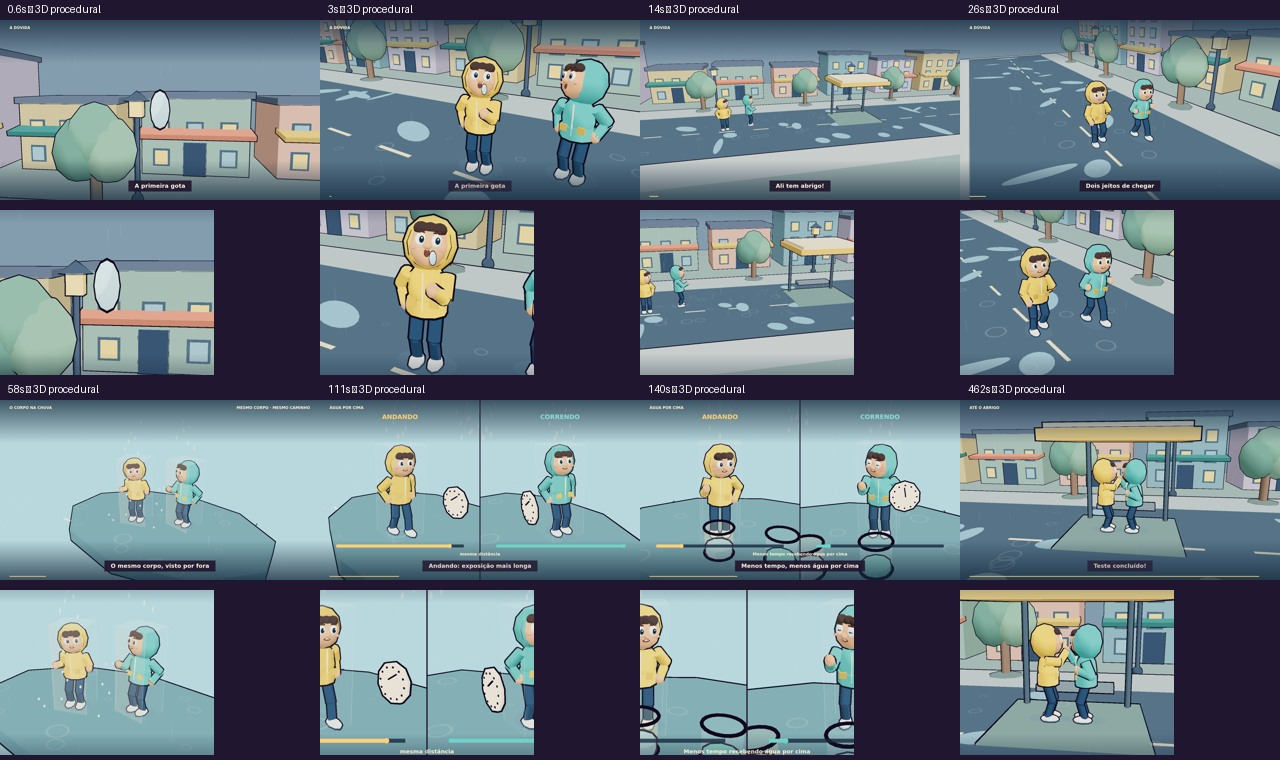
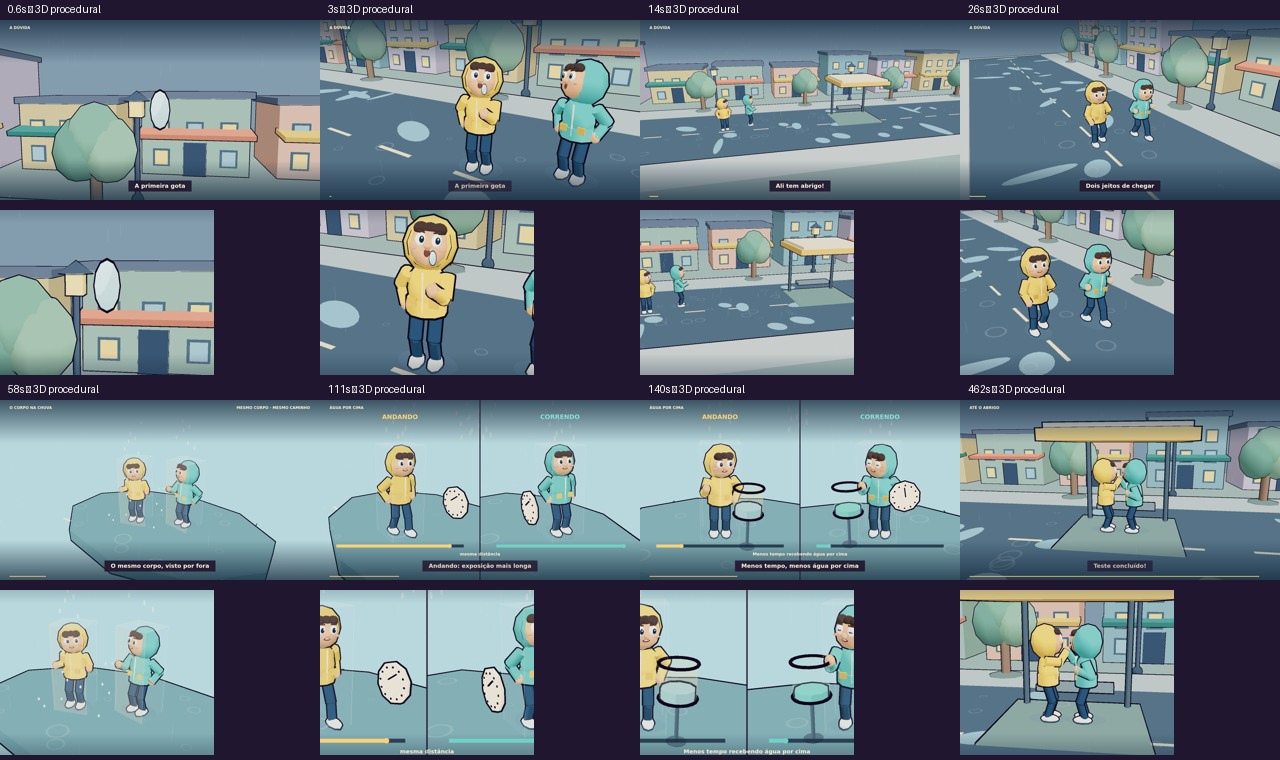
Melhora leitura dos recipientes 3D e dos níveis de água

Changed region(s): [[0.5, 0.8474, 0.6875, 0.9987], [0.5312, 0.6355, 0.7188, 0.7566]]

diff --git a/Animação/projetos/01 - Andar ou Correr na chuva/film.js b/Animação/projetos/01 - Andar ou Correr na chuva/film.js
@@ -97,7 +97,7 @@ for(let j=0;j<8;j++){const a=j*Math.PI/4;const rib=bone(canopy,palette.cream,.01
 const clipboard=new T.Group();scene.add(clipboard);box(palette.cream,clipboard,[0,0,0],[.43,.53,.035],true);box(palette.ink,clipboard,[0,.25,.03],[.16,.04,.04]);for(let j=0;j<4;j++)box(0x839cae,clipboard,[-.02,.12-j*.075,.025],[.25,.012,.006]);
 const pencil=box(palette.orange,scene,[0,0,0],[.025,.20,.025]);pencil.rotation.z=-.6;
 const towel=box(palette.cream,scene,[0,0,0],[.25,.38,.045]);
-const buckets=new T.Group();scene.add(buckets);const waterColumns=[];for(let j=0;j<2;j++){const g=new T.Group();g.position.set((j-.5)*1.3,0,0);buckets.add(g);const wall=new T.Mesh(new T.CylinderGeometry(.31,.31,.60,16,1,true),new T.MeshBasicMaterial({color:j?palette.teal:palette.yellow,transparent:true,opacity:.24,side:T.DoubleSide,depthWrite:false}));wall.position.y=.34;g.add(wall);for(const y of [.04,.64]){const rim=mesh(new T.TorusGeometry(.31,.018,5,20),palette.ink,g,[0,y,0],[1,1,1]);rim.rotation.x=Math.PI/2;}const water=cylinder(j?0x4bb8af:0x77b7d2,g,[0,.12,0],[.285,.15,.285]);waterColumns.push(water);}
+const buckets=new T.Group();scene.add(buckets);const waterColumns=[];for(let j=0;j<2;j++){const g=new T.Group();g.position.set((j-.5)*1.3,0,0);buckets.add(g);const wall=new T.Mesh(new T.CylinderGeometry(.31,.31,.60,16,1,true),new T.MeshBasicMaterial({color:j?palette.teal:palette.yellow,transparent:true,opacity:.24,side:T.DoubleSide,depthWrite:false}));wall.position.y=.34;g.add(wall);for(const y of [.04,.64]){const rim=mesh(new T.TorusGeometry(.31,.018,5,20),palette.ink,g,[0,y,0],[1,1,1]);rim.rotation.x=Math.PI/2;}const water=cylinder(j?0x4bb8af:0x77b7d2,g,[0,.12,0],[.285,.15,.285]);waterColumns.push(water);cylinder(0x516879,g,[0,-.40,0],[.035,.80,.035]);cylinder(0x516879,g,[0,-.78,0],[.18,.04,.18]);}
 const clockProp=new T.Group();scene.add(clockProp);const dial=cylinder(palette.cream,clockProp,[0,0,0],[.32,.045,.32],true);dial.rotation.x=Math.PI/2;const needle=box(palette.ink,clockProp,[0,.10,.04],[.018,.2,.02]);for(let j=0;j<12;j++){const a=j*Math.PI/6;box(palette.ink,clockProp,[Math.sin(a)*.25,Math.cos(a)*.25,.04],[.025,.025,.01]);}
 const ruler=new T.Group();scene.add(ruler);box(palette.cream,ruler,[0,.075,0],[6,.05,.16]);for(let j=0;j<=12;j++)box(palette.ink,ruler,[-3+j*.5,.11,0],[.025,.018,j%2?.08:.15]);
 const track=new T.Group();scene.add(track);for(const x of [-3,3])box(palette.cream,track,[x,.065,.2],[.12,.018,3.1]);
@@ -125,7 +125,7 @@ function draw(t){t=clamp(t,0,479.999);const st=direct(stage(t,timings),t),{A,B,q
  umbrella.visible=!!st.props.umbrella;if(umbrella.visible){const u=st.props.umbrella;if(u.flying)put(umbrella,[u.x,u.y,u.z]);else put(umbrella,(u.holder==='A'?walker:runner).handWorld.right);umbrella.rotation.set(u.flip*.1,0,-u.flip*.25+.03*Math.sin(t*3));canopy.scale.set(.12+.88*u.open,u.flip?-.6:1,.12+.88*u.open);}
  clipboard.visible=!!st.props.clipboard;pencil.visible=clipboard.visible;if(clipboard.visible){const rig=st.props.clipboard==='A'?walker:runner;put(clipboard,rig.handWorld.left);clipboard.rotation.set(-.5,.15,-.1);put(pencil,rig.handWorld.right);pencil.rotation.z=-.6+Math.sin(t*12)*.08;}
  towel.visible=!!st.props.towel;if(towel.visible){const rig=st.action==='dry_friend'?walker:runner;put(towel,rig.handWorld.right);towel.rotation.z=Math.sin(t*5)*.2;}
- buckets.visible=!!st.props.buckets;buckets.position.set(midX,.03,midZ+1.2);for(let i=0;i<2;i++){const h=.06+(.49/(i?2:1))*smooth(q);waterColumns[i].scale.y=h;waterColumns[i].position.y=.04+h/2;}
+ buckets.visible=!!st.props.buckets;buckets.position.set(0,.80,0);for(const [i,a]of[A,B].entries())buckets.children[i].position.set(a.x+(i?-.75:.75),0,a.z+.45);for(let i=0;i<2;i++){const h=.06+(.49/(i?2:1))*smooth(q);waterColumns[i].scale.y=h;waterColumns[i].position.y=.04+h/2;}
  ruler.visible=!!st.props.ruler;ruler.position.set(midX,0,midZ+1.6);track.visible=!!st.props.track;
  clockProp.visible=!!st.props.clock;clockProp.position.set(midX+1.3,1.3,midZ+.5);needle.rotation.z=-st.local*1.5;
  puddle.visible=!!st.props.puddle;
@@ -136,7 +136,7 @@ function draw(t){t=clamp(t,0,479.999);const st=direct(stage(t,timings),t),{A,B,q
  for(let j=0;j<32;j++){const a=(t*1.2+j*.131)%1;dummy.position.set(ringBase[j][0],.06,ringBase[j][1]);dummy.rotation.set(-Math.PI/2,0,0);dummy.scale.setScalar(.05+a*.25);dummy.updateMatrix();rings.setMatrixAt(j,dummy.matrix);}rings.instanceMatrix.needsUpdate=true;
  demoDrops.visible=Boolean(A.overlay||B.overlay);if(demoDrops.visible){for(let j=0;j<24;j++){const actor=j<12?A:B,rig=j<12?walker:runner,front=actor.overlay==='front'||actor.overlay==='both'&&j%2===0,phase=(t*(st.props.slow?.3:.8)+j*.137)%1;const v=new T.Vector3((j%3-1)*.23,front?.65+(j%5)*.29:3.55-phase*1.1,front?1.8-phase*1.2:(j%4-1.5)*.16);rig.g.localToWorld(v);dummy.position.copy(v);dummy.rotation.set(0,0,0);dummy.scale.set(.025,front?.035:.065,.025);dummy.updateMatrix();demoDrops.setMatrixAt(j,dummy.matrix);}demoDrops.instanceMatrix.needsUpdate=true;}
  renderer.setScissorTest(false);renderer.setViewport(0,0,1920,1080);if(!st.split)renderer.render(scene,camera);
- if(st.split){renderer.setScissorTest(true);for(const [i,rig,actor,other]of[[0,walker,A,runner],[1,runner,B,walker]]){other.setVisible(false);rig.setVisible(true);renderer.setViewport(i*960,0,960,1080);renderer.setScissor(i*960,0,960,1080);applyCamera(cameraPlan(st,t,8/9,actor));renderer.render(scene,camera);}walker.setVisible(true);runner.setVisible(true);renderer.setScissorTest(false);renderer.setViewport(0,0,1920,1080);applyCamera(plan);}
+ if(st.split){renderer.setScissorTest(true);for(const [i,rig,actor,other]of[[0,walker,A,runner],[1,runner,B,walker]]){other.setVisible(false);rig.setVisible(true);if(buckets.visible){buckets.children[i].visible=true;buckets.children[1-i].visible=false;}renderer.setViewport(i*960,0,960,1080);renderer.setScissor(i*960,0,960,1080);applyCamera(cameraPlan(st,t,8/9,actor));renderer.render(scene,camera);}walker.setVisible(true);runner.setVisible(true);for(const g of buckets.children)g.visible=true;renderer.setScissorTest(false);renderer.setViewport(0,0,1920,1080);applyCamera(plan);}
  ctx.drawImage(renderer.domElement,0,0,1920,1080);ctx.save();ctx.scale(SCALE,SCALE);
  const grad=ctx.createLinearGradient(0,0,0,H);grad.addColorStop(0,'#10263abd');grad.addColorStop(.24,'#10263a00');grad.addColorStop(.78,'#10263a00');grad.addColorStop(1,'#10263abb');ctx.fillStyle=grad;ctx.fillRect(0,0,W,H);
  text(chapters[st.chapter].name.toUpperCase(),38,36,15,'#fff1d7');
